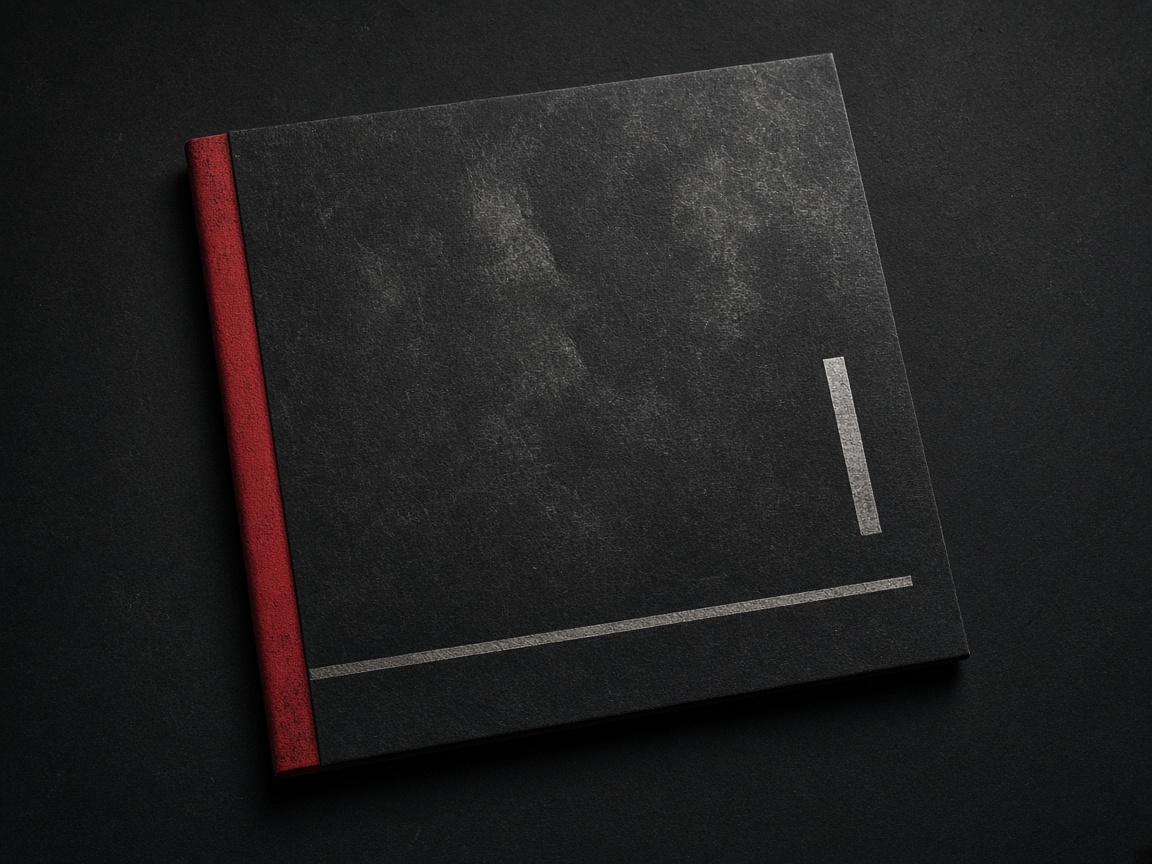
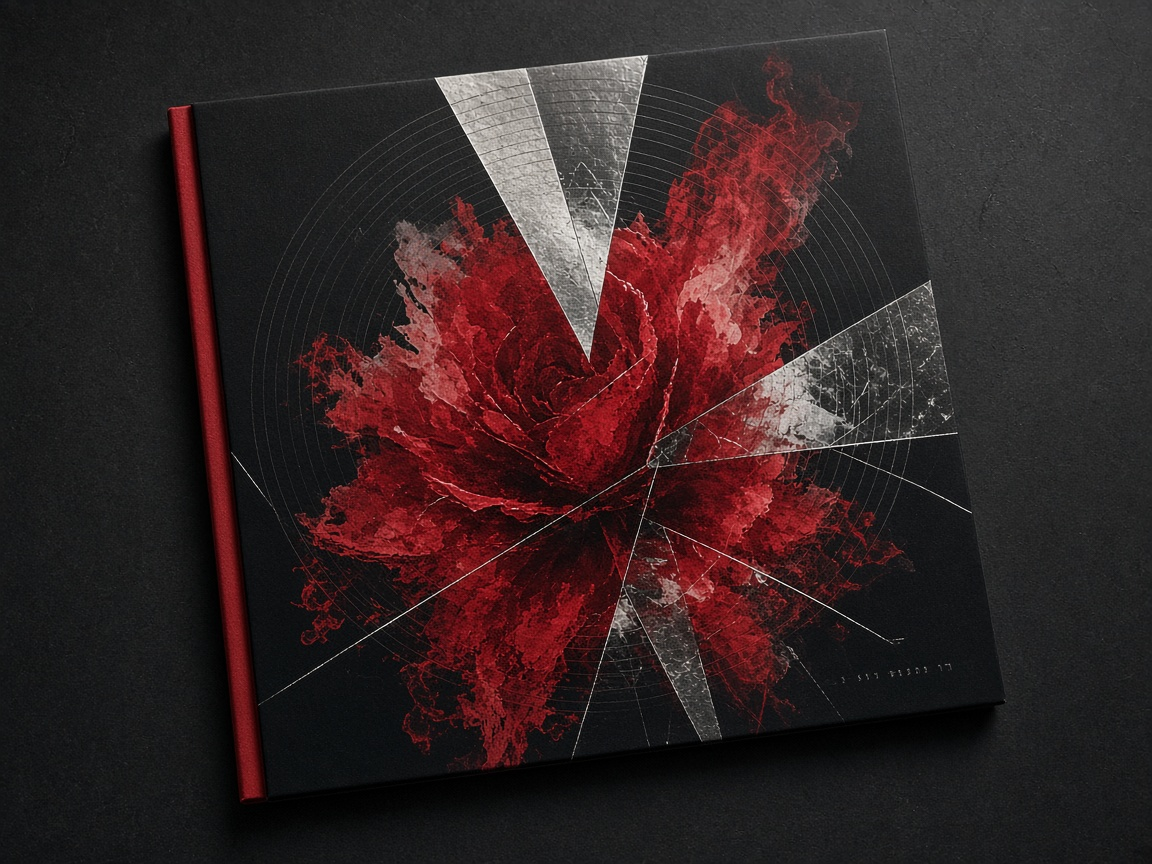
Replace cover-art package image with dramatic Rouge Noir sleeve
Swap the blank dark vinyl sleeve for eye-catching crimson rose-nebula
cover art with silver geometric shards; update matching alt text.

diff --git a/site/index.html b/site/index.html
@@ -93,7 +93,7 @@
         </div>
         <div class="playbill-col">
           <div class="playbill-photo">
-            <img class="playbill-img" src="assets/publishing/publish-cover-art.jpg" alt="Vinyl sleeve with crimson spine — Publish music and cover art" width="1152" height="864" loading="lazy">
+            <img class="playbill-img" src="assets/publishing/publish-cover-art.jpg" alt="Dramatic crimson rose-nebula vinyl sleeve with silver shards — Publish music and cover art" width="1152" height="864" loading="lazy">
           </div>
           <h4>Publish music and cover art</h4>
           <p class="pkg-price">$1,500</p>
